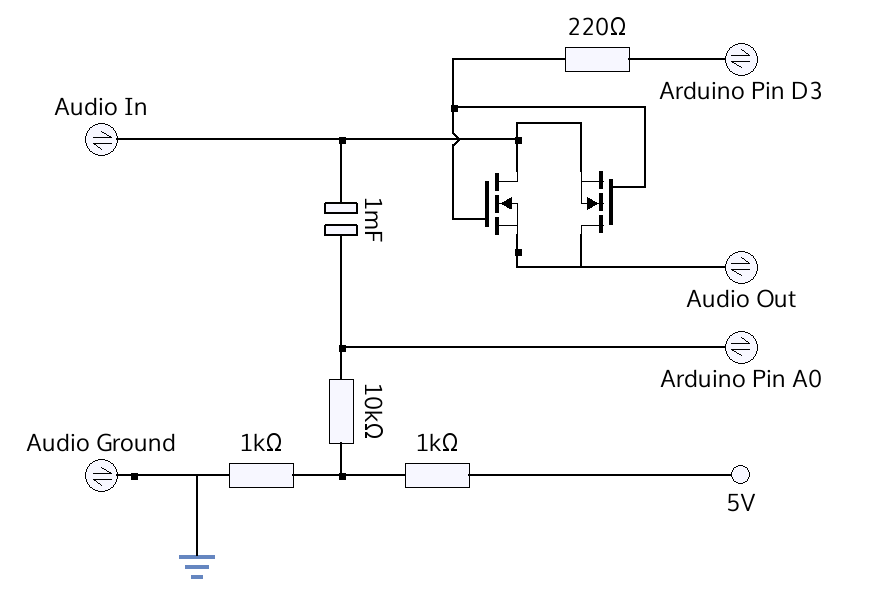
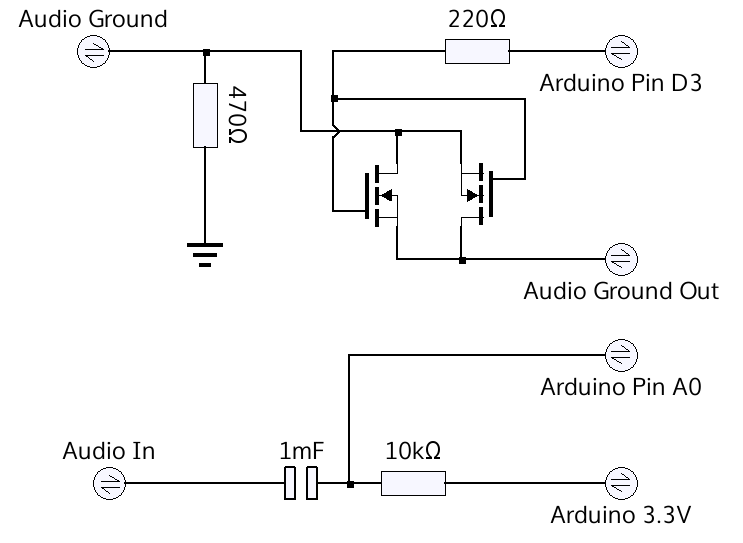
Adjust circuit for even more simplicity and robustness: - bias input to 3.3V stabilized - switch on audio ground, rather than audio signal - this also allows us to handle higher signal levels.
Further add documentation on adding controls and tuning.

diff --git a/Readme.md b/Readme.md
@@ -29,23 +29,25 @@ But we'll start simple (and quite possibly, this may already be enough for your 
 
 ![Basic mono schematic](https://github.com/tfry-git/compressor-arduino/raw/master/doc/basic_mono_circuit.png)
 
-Let's start with the bottom half of the circuit: Here, the audio signal is decoupled via a largish capacitor, and biased to a level of roughly 2.5V, created by theory
-voltage divder formed from the two 1k resistors. The whole point is to convert the signal to a level suitable for sampling by the arduino. Contrary to the schematic, an
-electrolyte cap is perfectly fine, here, with the negative side connected to ground. It should be rather large in order to allow for low frequencies to pass. However, the exact
-value does not matter. Similarly, the resistor values do not matter too much at all.
+Let's start with the bottom half of the circuit: Here, the audio signal is decoupled via a largish capacitor, and biased to a level of roughly 3.3V, in order to bring it to a
+level suitable for sampling by the arduino. The reason to use 3.3V, here, is simply that a stabilized 3.3V output is already available on many Arduino boards. In principle we could
+simply use two resistors to form a voltage divider (and probably base that on 2.5V), but a stabilized voltage is clearly preferrable, esp. when powering from USB. Contrary to the schematic, an
+electrolyte cap is perfectly fine for the decoupling, with the negative side connected to audio in, and the positive side to the Arduino side. The capacitor should be rather large in order to
+allow for low frequencies to pass. However, the exact value does not matter. Similarly, the resistor value does not matter too much at all.
 
 The biased signal is now fed into the Arduino (pin A0), where it will be sampled at roughly 77kHz. The sampling accuracy is not terribly good, and so one of the requirements of this basic circuit is
 having a suitably large input signal (line level/headphone level is more than enough). But not a whole lot of accuracy is needed, either: The only point of this part of the circuit is to allow
 the Arduino to detect the current signal level, and - remember - low signal levels are not of interest in the first place.
 
-The more interesting part of the circuit is the upper half. Two N-FETs are connected back to back (D of the first connected to S of the second and vice versa), which are both controlled
+The more interesting part of the circuit is the upper half. Two N-FETs are connected back to back (drain of the first connected to source of the second and vice versa), which are both controlled
 synchronously from Arduino pin D3. These two FETs simply function as a _simple_ analog switch. The good news is that you are pretty likely to have those N-FETs in your part-collection already:
-A pair of 2N7000 or any other common small signal N-FET will do ok. Importantly, the FET should be _far_ inside the on-region at 4-5 Volts. Also, preferrably, the forward-voltage drop of the
-body diode should be as large as possible. A somewhat better choice than 2N7000 would be IRLML2502, and an even better choice will be to use a dedicated analog switch (in this particular schematic
-you'd want one supporting negative voltage swings!), but again, the 2N7000 will perform ok-ish, so try that, first.
+A pair of 2N7000 or any other common small signal N-FET will do ok. Importantly, the FET should be _far_ inside the on-region at 4-5 Volts. Also, of course, if should be able to handle whatever current
+will be flowing. A somewhat better choice than 2N7000 would be IRLML2502, and an even better choice will be to use a dedicated analog switch (in this particular schematic
+you'd want one supporting negative voltage swings!), but again, the 2N7000 will perform ok-ish, and is enough for connecting a headphone, so try that, first. Also, again, the exact resistor values will
+not matter. The 220 Ohms is for limiting the gate (dis-)charge current, to what the Arduino can safely handle. The 470 Ohms is to provide a bit of isolation from noise in the power supply.
 
-What the switch is doing is simply turning on and off the audio signal at a rate and duty cycle controlled by Arduino digital pin 3 (PWM). The code uses a ~66kHz frequency with duty cycle adjusted
-between 100% and ~5%. The 66kHz switching will not be audible (your speakers will not even be able to represent such frequencies), but if you are concerned about high frequency artifact, you could
+What the switch is doing is simply turning on and off the audio ground[1] at a rate and duty cycle controlled by Arduino digital pin 3 (PWM). The code uses a ~66kHz frequency with duty cycle adjusted
+between 100% and ~5%. The 66kHz switching will not be audible (your speakers will not even be able to represent such frequencies), but if you are concerned about high frequency artifacts, you could
 easily add a simple low-pass filter.
 
 That's all folks, nothing else needed. At least if all you need is switching a line level / headphone level mono signal. Need more? Read on / hang on for more sophisticated circuits built around
@@ -53,8 +55,33 @@ the same idea.
 
 ## Adding status indicators and parameter control
 
-- Acutally already implemented in the sketch. Try reading the comments, there.
+With some luck, the above circuit will simply work for you, but in many cases you will have to do some tuning. In order to do that, easily, let's add some status indicators and contols:
+
+- Connect four LEDs (with appropriate resistors) from pins D10 through D13 to ground. I suggest using green on D10, yellow and D11 and red on D12 and D13. 
+- Connect a 2 by 4 button matrix to pins D4 through D9. D8 and D9 should be connected to the two row wires, D4 through D7 should be connected to the four column wires.
+
+The two buttons at D4 will be used for tuning attack up and down, the buttons at D5 are for controlling release, D6 is threshold, D7 is ratio. (Pin setup can be customized in the source).
+
+## Tuning the compressor parameters
+
+Ok, so how to get started?
+1. First, slowly turn up the input volume such that the LED on pin D13 will _almost_, but not quite light up on the loudest signals. (This LED is meant to signify sound levels that are approaching the
+   limits of what the hardware can handle. Don't worry if your signal source does not deliver that much. In this case just turn up the input signal as much as possible).
+2. Next adjust the threshold value. The green LED on pin D10 will light up as soon as the compressor starts kicking in, i.e. once the threshold is reached. The threshold should be high enough that
+   you can comfortably hear important sounds (such as low speech), but ideally a good deal below sounds that are "definitely too loud". Too low of a threshold may lead to sound artifacts esp. for low signals.
+3. Adjust the ratio such that the loudest sounds remain inside the acceptable range. Generally, the red LED at D12 should not light up, or only for extreme sounds. It indicates that the compressor
+   is operating close to the limit. Much louder, and sounds cannot be tuned down without considerable distortion. (D12 corresponds to tuning down the signal to roughly 1/12 or -22dB; the maximum the
+   compressor will do is -28dB; the yellow LED at D11 signals tuning down to 1/2 or -6dB).
+4. For adjusting attack and release, it's hardest to outline a clear procedure, but also these will generally work quite fine at their default values. Note that too small values of attack can lead
+   to artifacts, too small values of release can lead to the compressor "pumping" on certain sounds.
 
 ## More to come
 
 ... but writing this up is more work than it may seem. If you find this useful, consider donating a bread crumb or two via Paypal: thomas.friedrichsmeier@gmx.de
+
+
+## Footnotes
+
+[1] Originally, I was switch the audio signal line, instead of audio ground. Switching on the ground connection has two advantages: First, the N-FETs gate-to-source potential will be independent of the
+current signal level, allowing for more linearity. Second, this way subject to some caveats you can switch on and off a stereo signal with a single N-FET pair (but alternatively, connect a second pair in parallel,
+also connected to pin D3). Of course, if your next stage is e.g. a high impedance amp, rather than a speaker coil, you should bias "Audio Ground Out" to ground via a largish resistor (some k Ohms).
